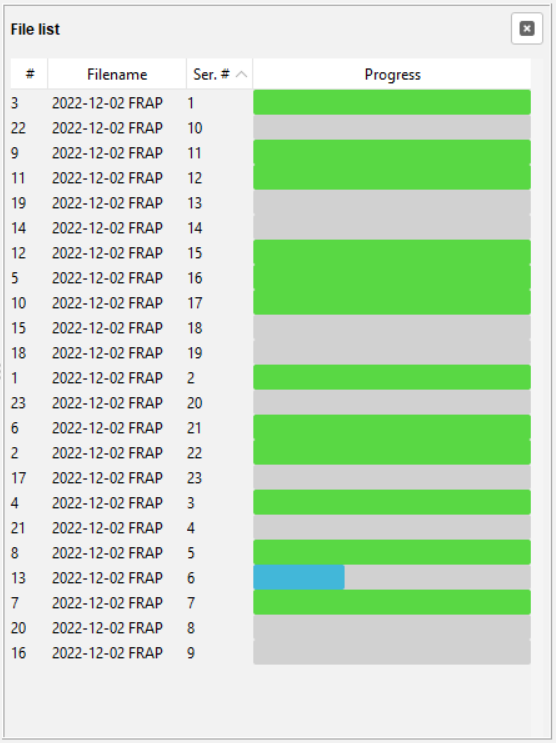
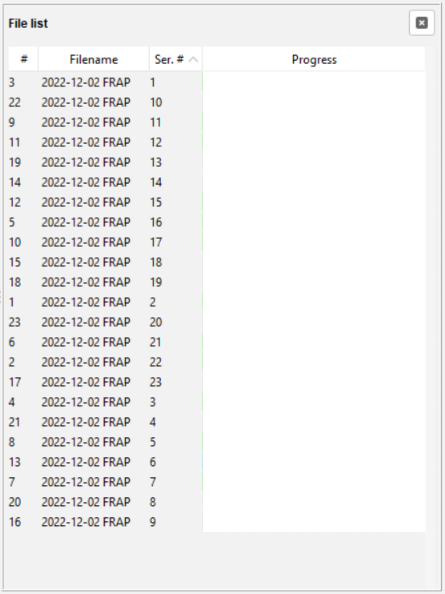
Added animation to batch processing

diff --git a/src/app/page.tsx b/src/app/page.tsx
@@ -1,6 +1,5 @@
 import Image from 'next/image';
 import splash from '@/../public/images/screenshots/splash.png';
-import batchProcessing from '@/../public/images/screenshots/batch_processing.png';
 import dataExport from '@/../public/images/screenshots/data_export.png';
 import imagej from '@/../public/images/logos/imagej.png';
 import fiji from '@/../public/images/logos/fiji.png';
@@ -10,6 +9,7 @@ import { MdMovie, MdDescription, MdApps } from 'react-icons/md';
 import ModuleCloud from '@/components/module/ModuleCloud';
 import CodeSnippet from '@/components/splash/CodeSnippet';
 import Card from '@/components/Card';
+import BatchProcessing from '@/components/splash/BatchProcessing';
 
 export default function Home() {
   return (
@@ -75,7 +75,7 @@ export default function Home() {
         </div>
       </section>
 
-      <section className="grid sm:grid-cols-3 gap-16 items-center">
+      <section className="grid sm:grid-cols-3 gap-16 items-center group">
         <div className="col-span-2 space-y-8">
           <div>
             <h2>Efficient</h2>
@@ -111,9 +111,7 @@ export default function Home() {
           </div>
         </div>
 
-        <div>
-          <Image src={batchProcessing} alt="MIA" className="shadow-xl" />
-        </div>
+        <BatchProcessing />
       </section>
 
       <section className="space-y-8">

diff --git a/src/components/splash/BatchProcessing.tsx b/src/components/splash/BatchProcessing.tsx
@@ -1,0 +1,36 @@
+import Image from 'next/image';
+import batchProcessing from '@/../public/images/screenshots/batch_processing.png';
+import { randomNumber } from '@/lib/util';
+
+const BARS = 20;
+
+function ProgressBar() {
+  const duration = randomNumber(1000, 10000);
+  const delay = randomNumber(0, 200);
+
+  return (
+    <div
+      className="w-0 group-hover:w-full flex-1 transition-[width]"
+      style={{ transitionDuration: `${duration}ms`, transitionDelay: `${delay}ms` }}
+    >
+      <div
+        className="bg-mia-blue h-full group-hover:bg-mia-green transition-colors duration-500"
+        style={{ transitionDelay: `${delay + duration}ms` }}
+      />
+    </div>
+  );
+}
+
+export default function BatchProcessing() {
+  return (
+    <div className="relative">
+      <Image src={batchProcessing} alt="MIA batch processing" className="shadow-xl" />
+
+      <div className="w-full h-full absolute top-0 flex flex-col -z-10 pl-30 py-9">
+        {Array.from(Array(BARS).keys()).map((i) => (
+          <ProgressBar key={i} />
+        ))}
+      </div>
+    </div>
+  );
+}

diff --git a/src/lib/util.ts b/src/lib/util.ts
@@ -1,3 +1,7 @@
 export function uniqueBy<T>(items: T[], key: keyof T): T[] {
   return [...new Map(items.map((item) => [item[key], item])).values()];
 }
+
+export function randomNumber(min: number, max: number): number {
+  return Math.floor(Math.random() * (max - min + 1)) + min;
+}
